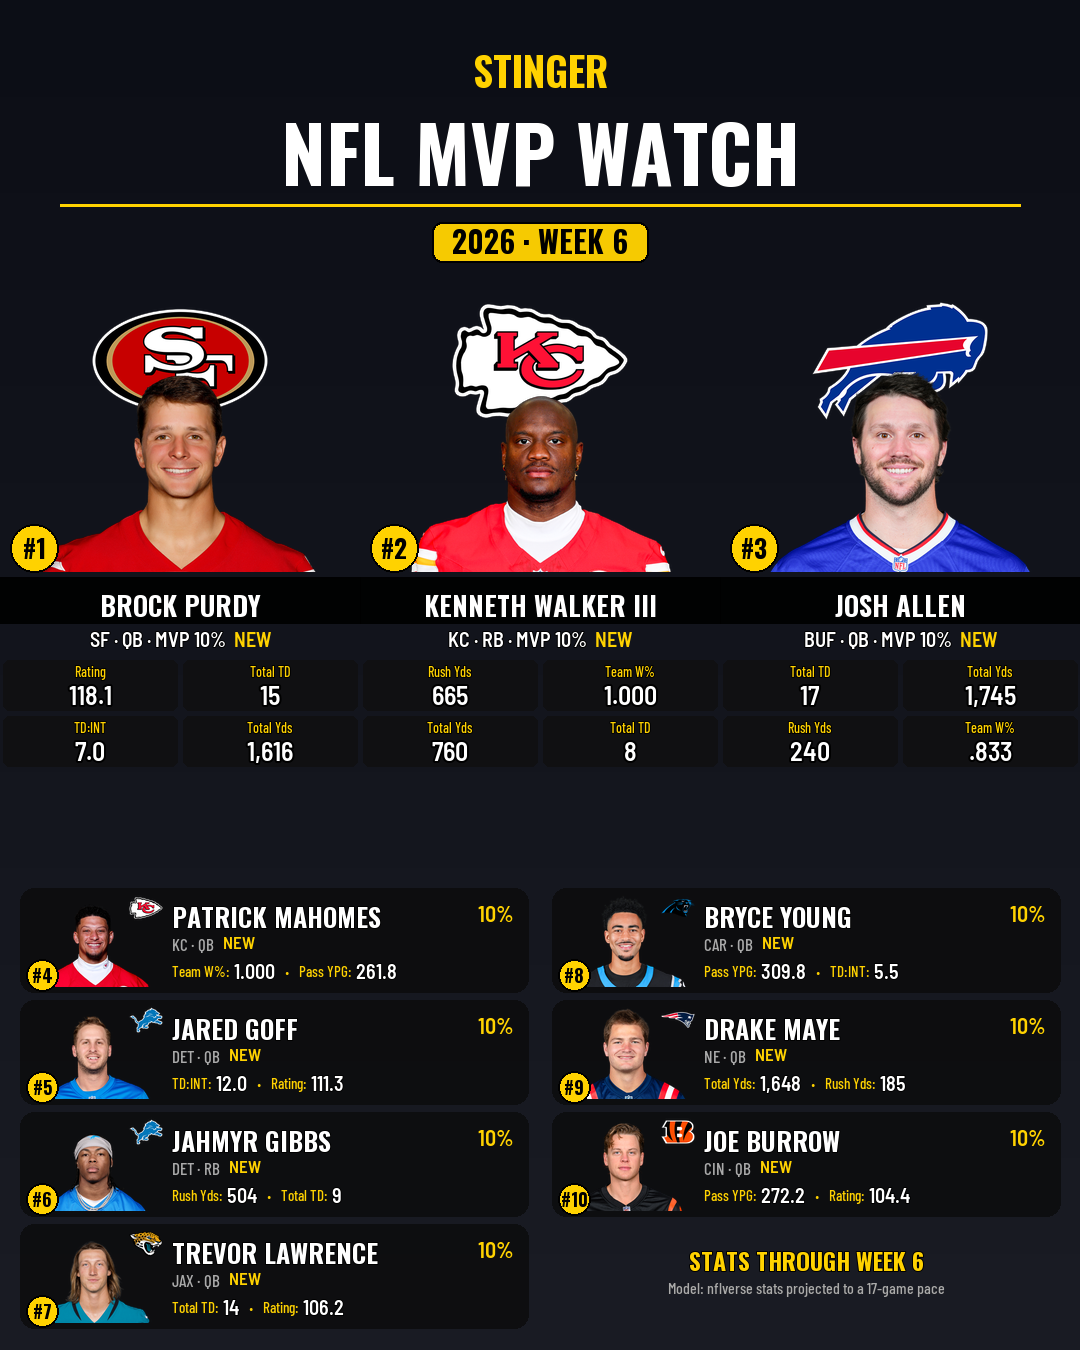
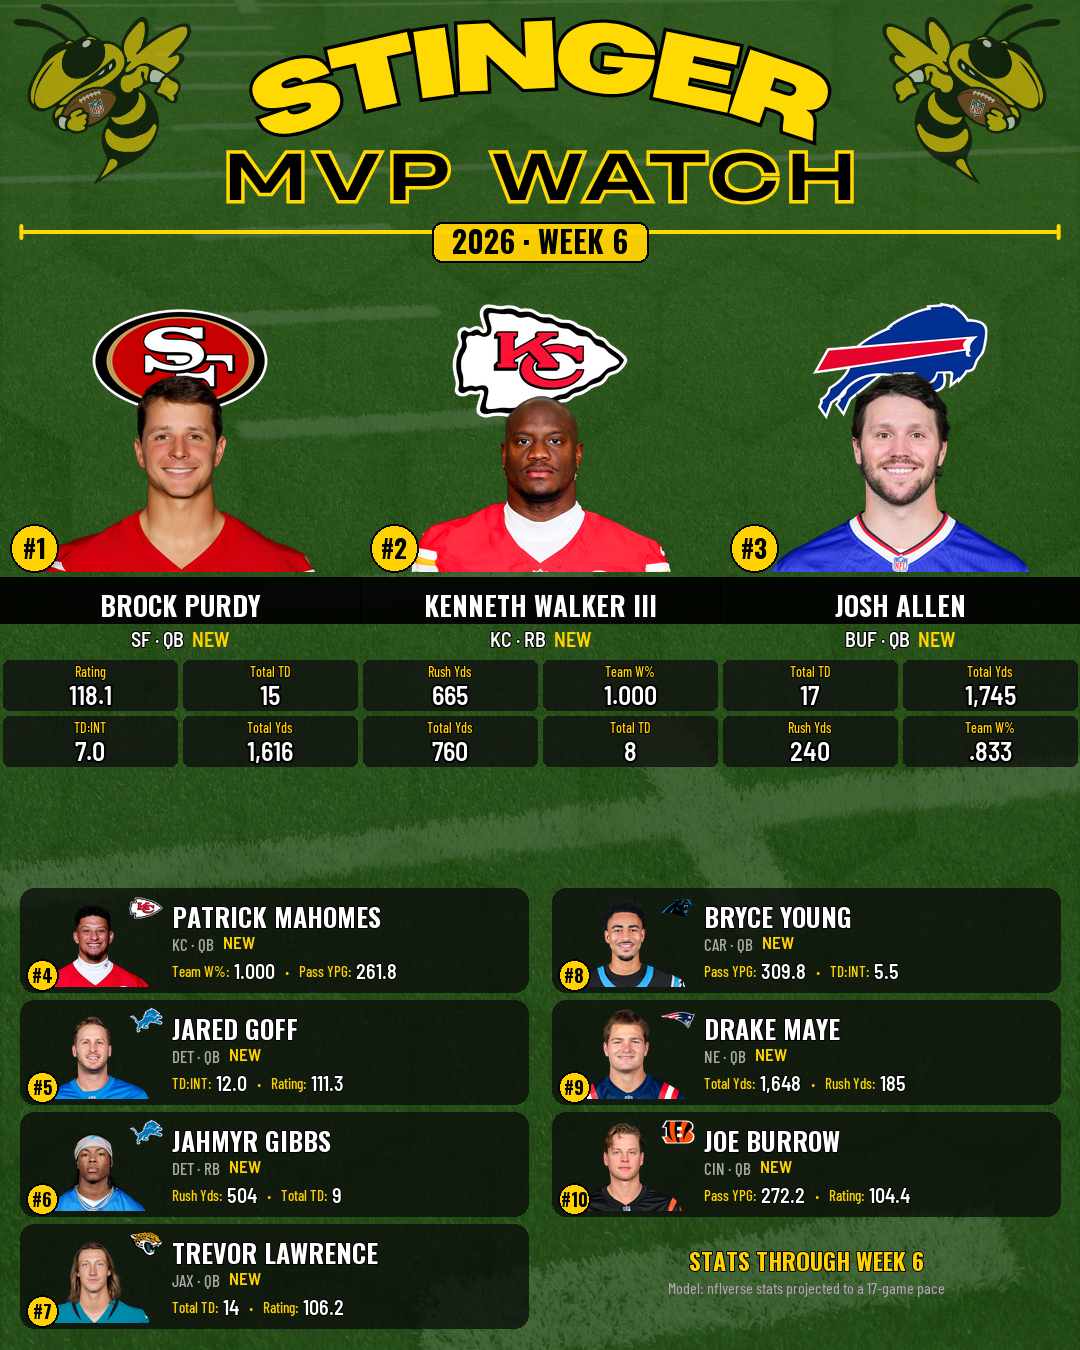
Drop displayed MVP %, add board background
Pace-projected top-10 scores all sit at 0.99+, so share-of-top-10 showed
~10% for every player. Removed mvp_prob from the CSV and the graphic and
the DISPLAY_PROB config; the board ranks by model_score only.
Adds the 1080x1350 'MVP Awards NFL.png' background.

diff --git a/src/Predictions/predict_current.py b/src/Predictions/predict_current.py
@@ -9,8 +9,9 @@ Pipeline
    (works from Week 1 and survives byes, unlike a fixed games floor).
 4. Counting stats (incl. games) projected to a SEASON_GAMES pace before scoring —
    the model was trained on full seasons; raw partial totals collapse it.
-5. Score with config.MODEL_TARGET; display probability = share of the top-10 total
-   (raw logreg output saturates near 100%).
+5. Score with config.MODEL_TARGET and rank. No probability is displayed: with
+   pace-projected stats the top-10 scores all sit at 0.99+, so any % shown
+   (share of total ≈ 10% each) carried no information. model_score is the raw output.
 
 Outputs (predictions/{year}/)
   top10_mvp_latest.csv       ← Google Sheet import
@@ -41,7 +42,7 @@ import nflreadpy as nfl
 from config import (
     CURRENT_YEAR, FEATURES, MODEL_TARGET, model_path, PREDICTIONS, CANDIDATES_CSV,
     SEASON_GAMES, MIN_TEAM_GAME_SHARE, BOARD_POSITIONS, TOP_N, CANDIDATE_POOL,
-    ARCHIVES_TO_KEEP, DISPLAY_PROB, DISPLAY_TEMPERATURE,
+    ARCHIVES_TO_KEEP,
 )
 from src.features import add_derived_features, feature_matrix
 
@@ -56,7 +57,7 @@ COUNTING_COLS = [
 # Columns written to top10_mvp_latest.csv, in order (the Sheet import contract)
 BOARD_COLS = [
     "player_key", "rank", "rank_delta", "movement", "player_name", "team", "position",
-    "mvp_prob", "model_score",
+    "model_score",
     "games", "team_games", "win_pct", "passer_rating", "total_tds", "td_int",
     "total_yards", "pass_ypg", "rush_yards",
     "season", "through_week", "updated_utc", "player_id",
@@ -181,16 +182,6 @@ def build_board(season: int, through_week: int | None = None) -> tuple[pd.DataFr
     return board, week
 
 
-def display_prob(score: pd.Series) -> pd.Series:
-    """Displayed MVP % for the top-N (see config.DISPLAY_PROB)."""
-    if DISPLAY_PROB == "softmax":
-        p = score.clip(1e-12, 1 - 1e-12)
-        z = np.log(p / (1 - p)) / DISPLAY_TEMPERATURE
-        e = np.exp(z - z.max())
-        return (e / e.sum()).round(4)
-    return (score / score.sum()).round(4)
-
-
 def add_movement(top: pd.DataFrame, prev_path: Path) -> pd.DataFrame:
     """rank_delta: +up / -down vs last week ("" if NEW); movement: ↑3 / ↓2 / – / NEW."""
     top = top.copy()
@@ -249,7 +240,6 @@ def run(season: int = CURRENT_YEAR, through_week: int | None = None,
                          f"no eligible {'/'.join(BOARD_POSITIONS)} found.")
 
     top = board.head(TOP_N).copy()
-    top["mvp_prob"] = display_prob(top["model_score"])
     top["model_score"] = top["model_score"].round(6)
     top["updated_utc"] = datetime.now(timezone.utc).strftime("%Y-%m-%d %H:%M")
 
@@ -265,7 +255,7 @@ def run(season: int = CURRENT_YEAR, through_week: int | None = None,
         old.unlink()
 
     print(f"\n=== {season} NFL MVP — through Week {week} ===")
-    show = ["rank", "movement", "player_name", "team", "position", "mvp_prob",
+    show = ["rank", "movement", "player_name", "team", "position",
             "games", "team_games", "win_pct", "passer_rating", "total_tds", "total_yards"]
     print(top[show].to_string(index=False))
     print(f"\nSaved -> {latest}")

diff --git a/src/publish/render_graphics.py b/src/publish/render_graphics.py
@@ -196,13 +196,6 @@ def draw_movement(draw, x: int, y: int, movement: str, size: int) -> int:
     return text_w(draw, "–", font)
 
 
-def pct_text(v) -> str:
-    try:
-        return f"{float(v) * 100:.0f}%"
-    except (TypeError, ValueError):
-        return ""
-
-
 # ─────────────────────────────────────────────────────────────────
 # LAYOUT
 # ─────────────────────────────────────────────────────────────────
@@ -256,10 +249,10 @@ def draw_card(canvas: Image.Image, player: pd.Series, pool_df: pd.DataFrame,
     name = fit_text(draw, str(player.get("player_name", "")).upper(), name_font, CARD_COL_W - 20)
     draw_text_centered(draw, cx, name_y + (_NAME_H - 27) // 2 - 2, name, name_font, WHITE, stroke_w=0)
 
-    # 4. Meta line: team · pos · MVP % · movement
+    # 4. Meta line: team · pos · movement
     y = name_y + _NAME_H + 4
     meta_font = _font("fg_demi", 20)
-    meta = f"{player.get('team', '')} · {player.get('position', '')} · MVP {pct_text(player.get('mvp_prob'))}  "
+    meta = f"{player.get('team', '')} · {player.get('position', '')}  "
     mw = text_w(draw, meta, meta_font)
     probe = Image.new("RGBA", (10, 10))
     move_w = draw_movement(ImageDraw.Draw(probe), 0, 0, player.get("movement", ""), 20)
@@ -340,11 +333,8 @@ def draw_compact_row(canvas: Image.Image, player: pd.Series, pool_df: pd.DataFra
     max_w = row_right - text_x - 14
 
     name_font = _font("agency_bold", 26)
-    name = fit_text(draw, str(player.get("player_name", "")).upper(), name_font, max_w - 70)
+    name = fit_text(draw, str(player.get("player_name", "")).upper(), name_font, max_w)
     draw.text((text_x, row_top + 12), name, font=name_font, fill=WHITE, stroke_width=1, stroke_fill=BLACK)
-    pf = _font("fg_demi", 22)
-    pct = pct_text(player.get("mvp_prob"))
-    draw.text((row_right - 18 - text_w(draw, pct, pf), row_top + 16), pct, font=pf, fill=GOLD)
 
     meta_font = _font("fg_med_cond", 17)
     meta = f"{player.get('team', '')} · {player.get('position', '')}   "

diff --git a/config.py b/config.py
@@ -72,13 +72,4 @@ MIN_TEAM_GAME_SHARE = 0.60    # must have played ≥60% of his team's games
 BOARD_POSITIONS     = ("QB", "RB")
 TOP_N               = 10
 CANDIDATE_POOL      = 25      # headshots pre-queued for the top-N eligible players
-
-# Displayed mvp_prob for the top 10.
-# "top10_share": model_score / sum(top-10 model_scores). With pace-projected
-#                stats the raw scores sit at 0.99+, so this comes out ~10% each.
-# "softmax":     exp(logit/T) normalized over the top 10. T=1.3 maximizes the
-#                held-out likelihood of the actual winner on full-season boards
-#                (2000–2025), but still gives #1 ~80–90% — overconfident early.
-DISPLAY_PROB        = "top10_share"
-DISPLAY_TEMPERATURE = 1.3
 ARCHIVES_TO_KEEP    = 4

diff --git a/CLAUDE.md b/CLAUDE.md
@@ -62,8 +62,9 @@ winner #1 / top-3 / top-5 / mean rank — AUC is deliberately not reported (~1 p
 3. Counting stats **and games** projected to a 17-game pace (`× 17 / team_games`) before scoring; rates
    aren't scaled. Without this the vote-trained model collapses early in the season.
 4. Displayed stats are actual season-to-date values, not the projection. QB-only stats are blank for RBs.
-5. `mvp_prob` per `config.DISPLAY_PROB`. Note pace-projected scores sit at 0.99+, so `top10_share` comes out
-   ~10% each; `softmax` is the alternative.
+5. Ranked by `model_score`; **no MVP % is displayed** (CSV or graphic). Pace-projected scores all sit at 0.99+,
+   so a share-of-top-10 % was ~10% for everyone, and a softmax over logits gave #1 ~90% at Week 6. Don't
+   reintroduce one without a calibration that holds up in-season.
 
 **Outputs (`predictions/{year}/`)** — `top10_mvp_latest.csv` is the Google Sheet import; its column order is
 `BOARD_COLS` in `predict_current.py` (a contract — don't rename casually). Plus 4 rolling timestamped archives,
